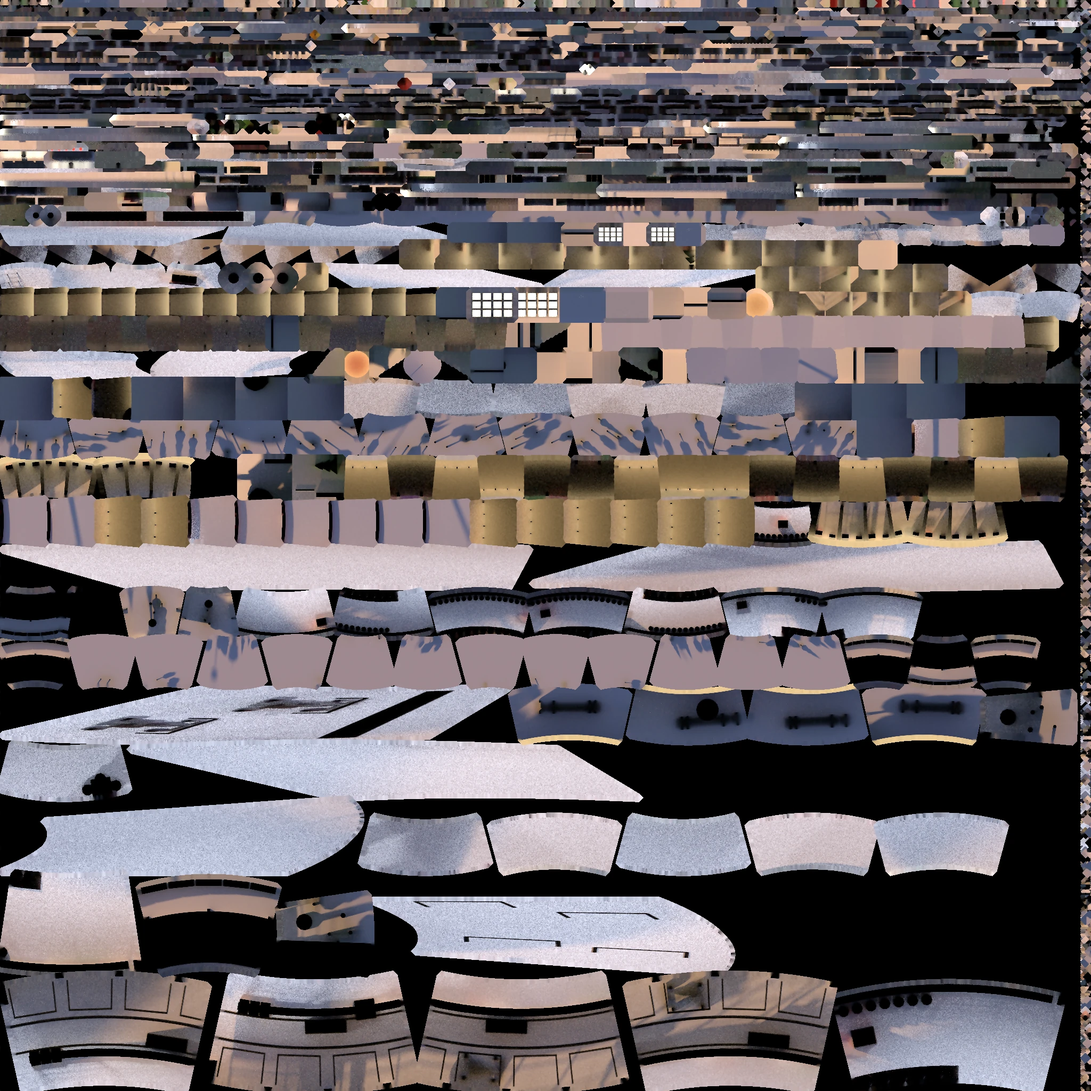
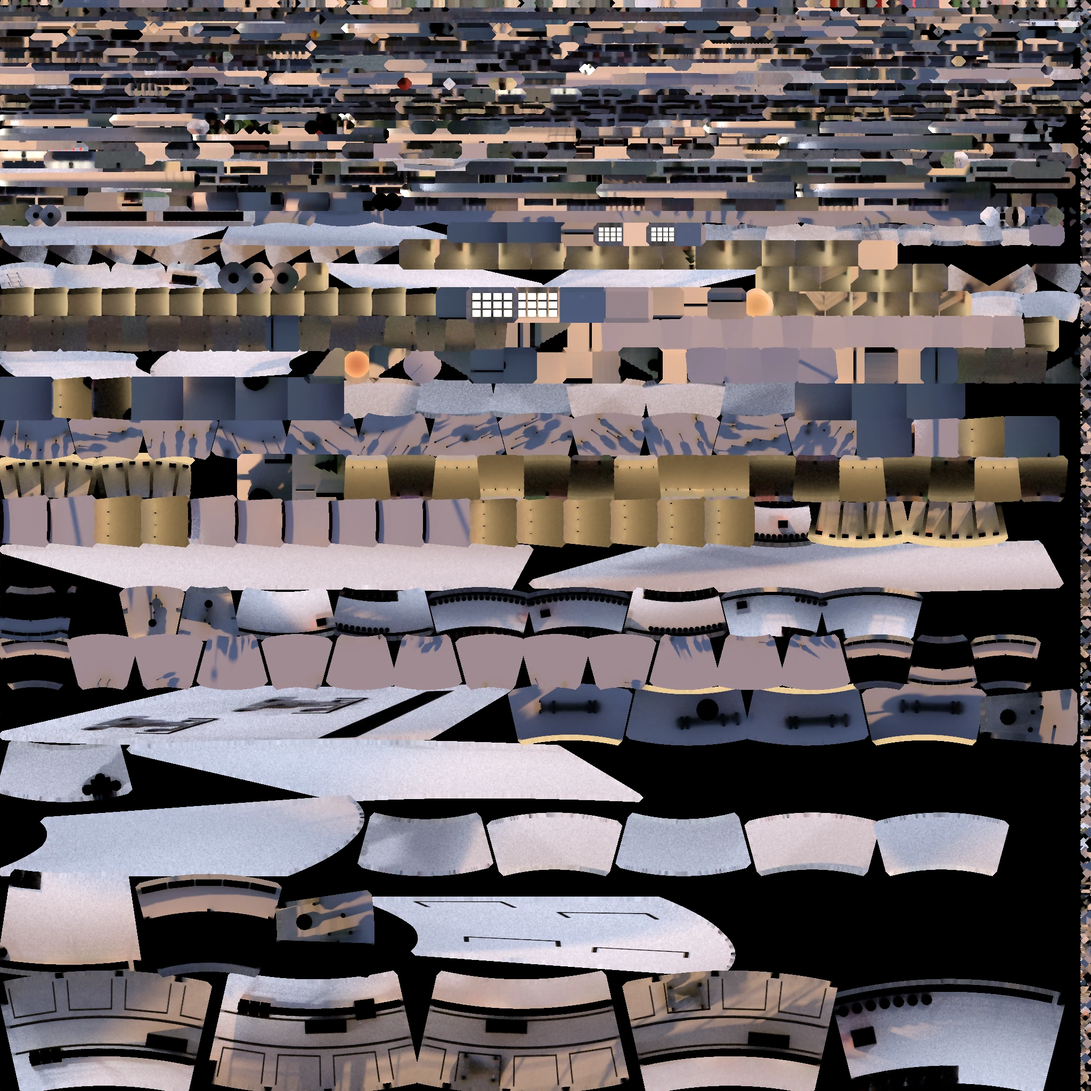
Speedway set re-baked at 128 samples: smoother shadows, smaller lightmap
Claude-Session: https://claude.ai/code/session_01Saq1C2M9Q8PgAMcXJP8Bqj

diff --git a/client/src/three/assets.gen.ts b/client/src/three/assets.gen.ts
@@ -28,9 +28,9 @@ export const ASSETS = {
     "url": "/models/speedway/set-env.webp?v=2f0e62282c"
   },
   "speedwaySet": {
-    "lightmap": "/models/speedway/set-light.webp?v=19f881f69a",
-    "lightmapIntensity": 4.8866,
-    "url": "/models/speedway/set.glb?v=73c37c803a"
+    "lightmap": "/models/speedway/set-light.webp?v=af6775c8a6",
+    "lightmapIntensity": 4.7585,
+    "url": "/models/speedway/set.glb?v=0fb2bfbbfc"
   },
   "table": {
     "url": "/models/table.glb?v=948e42f7ea"
